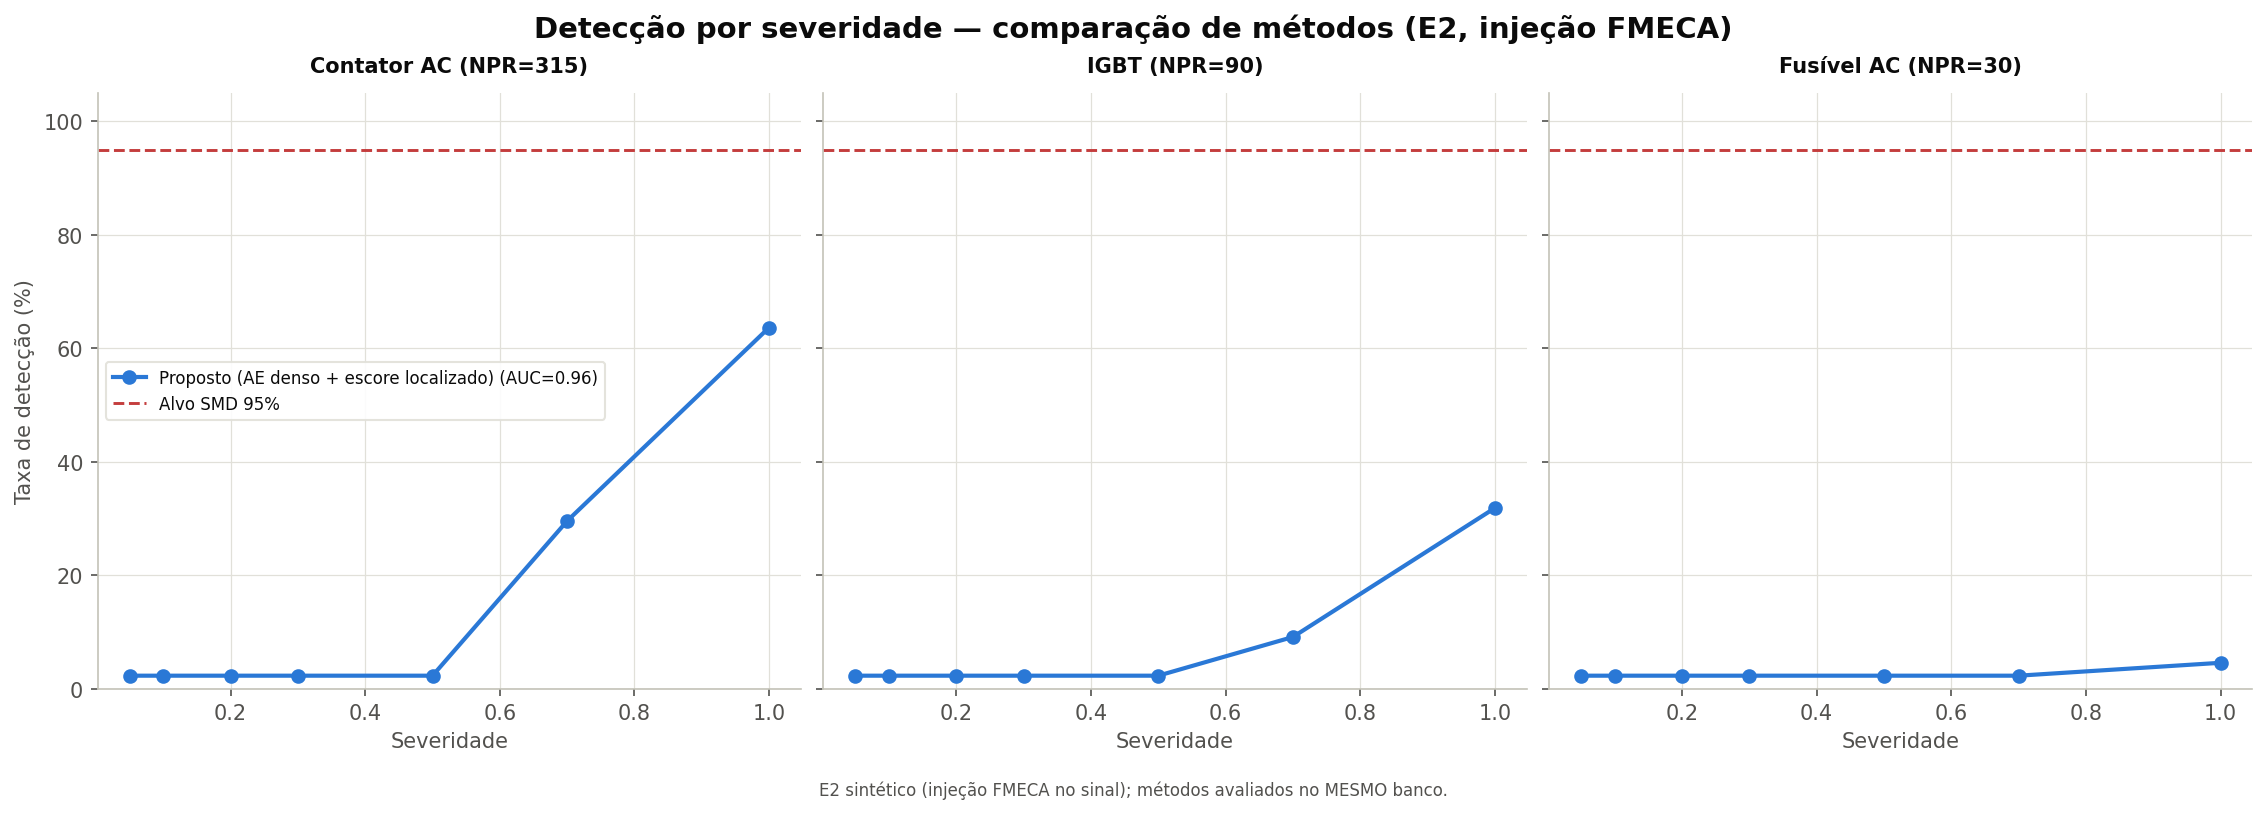
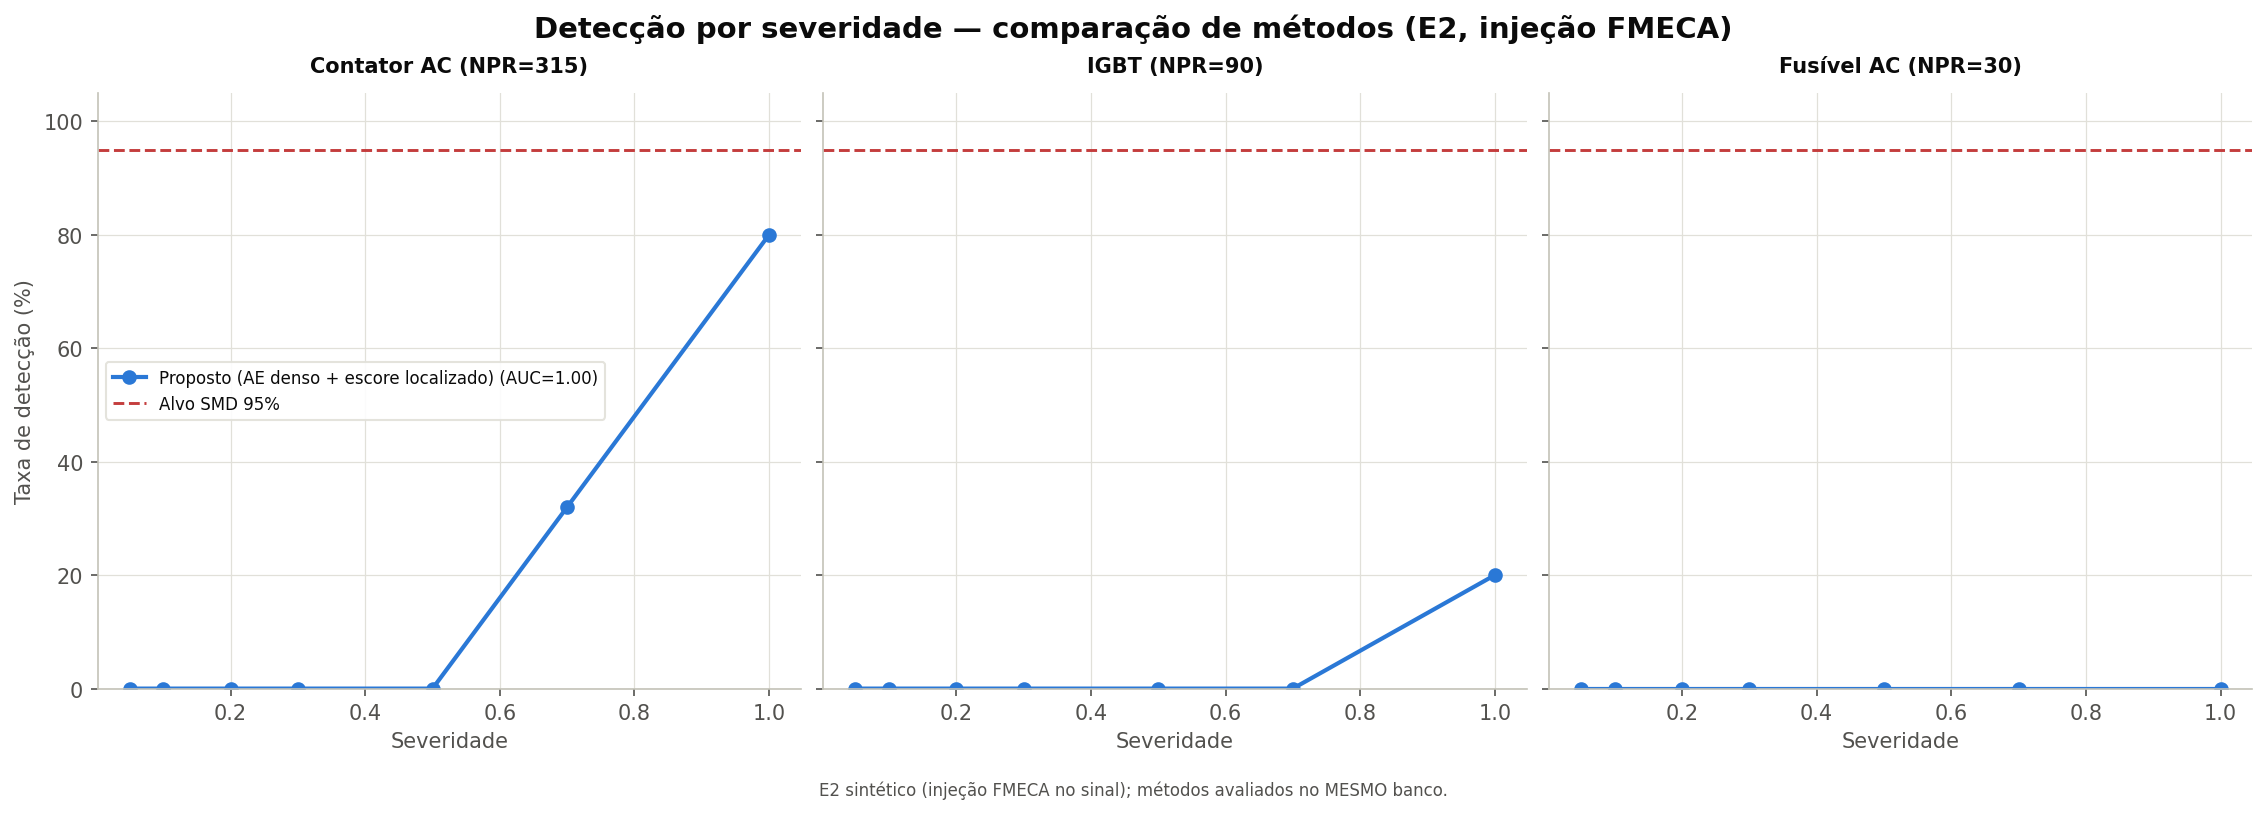
vault backup: 2026-07-26 15:33:09

diff --git a/resultados/macro/proposto_tabela.md b/resultados/macro/proposto_tabela.md
@@ -1,5 +1,5 @@
 | Método | Falha (NPR) | AUC | Detecção @sev=1.0 | FP saudável |
 |---|---|---|---|---|
-| Proposto (AE denso + escore localizado) | Contator AC (NPR=315) | 0.963 | 64% | 2.3% |
-| Proposto (AE denso + escore localizado) | IGBT (NPR=90) | 0.888 | 32% | 2.3% |
-| Proposto (AE denso + escore localizado) | Fusível AC (NPR=30) | 0.835 | 5% | 2.3% |
+| Proposto (AE denso + escore localizado) | Contator AC (NPR=315) | 1.000 | 80% | 0.0% |
+| Proposto (AE denso + escore localizado) | IGBT (NPR=90) | 0.978 | 20% | 0.0% |
+| Proposto (AE denso + escore localizado) | Fusível AC (NPR=30) | 0.927 | 0% | 0.0% |
